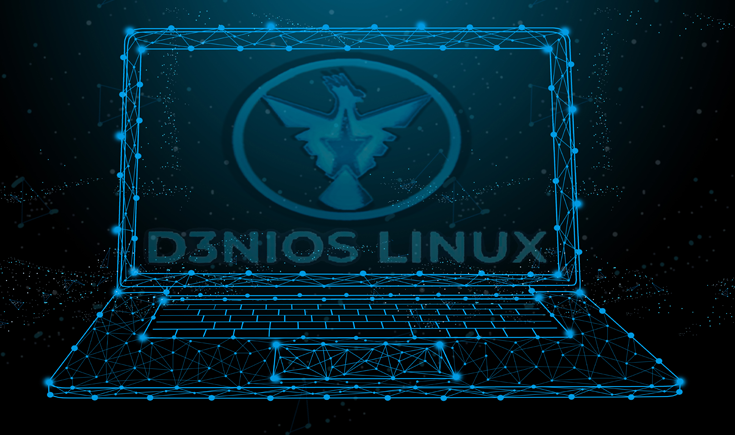
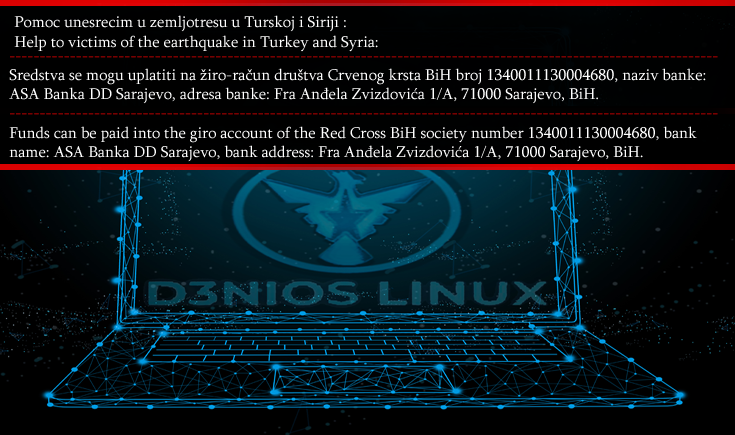
.
.

diff --git a/index.html b/index.html
@@ -63,6 +63,25 @@
 	<!--================Header Menu Area =================-->
 
 	<!--================Home Banner Area =================-->
+	<footer class="footer_area p_120">
+		<div class="container">
+			<div class="row footer_inner">
+				<div class="col-lg-5 col-sm-6">
+					<aside class="f_widget ab_widget">
+						<div class="f_title">
+							<h4>Za pomoć Turskoj i Siriji iz BiH !!! 06.02.2023</h4>
+							<h4>For help to Turkey and Syria from BiH !!! 06.02.2023</h4>
+						</div>
+						<p>Sredstva se mogu uplatiti na žiro-račun društva Crvenog krsta BiH broj 1340011130004680, naziv banke: ASA Banka DD Sarajevo, adresa banke: Fra Anđela Zvizdovića 1/A, 71000 Sarajevo, BiH.</p>
+						<p>Funds can be paid into the giro account of the Red Cross BiH society number 1340011130004680, bank name: ASA Banka DD Sarajevo, bank address: Fra Anđela Zvizdovića 1/A, 71000 Sarajevo, BiH.</p>
+						<div class="f_title">
+							<h4>To continue to the website, please scroll down.</h4>
+						</div>
+					</aside>
+				</div>
+			</div>
+		</div>
+	</footer>				
 	<section class="home_banner_area">
 		<div class="banner_inner">
 			<div class="container">
